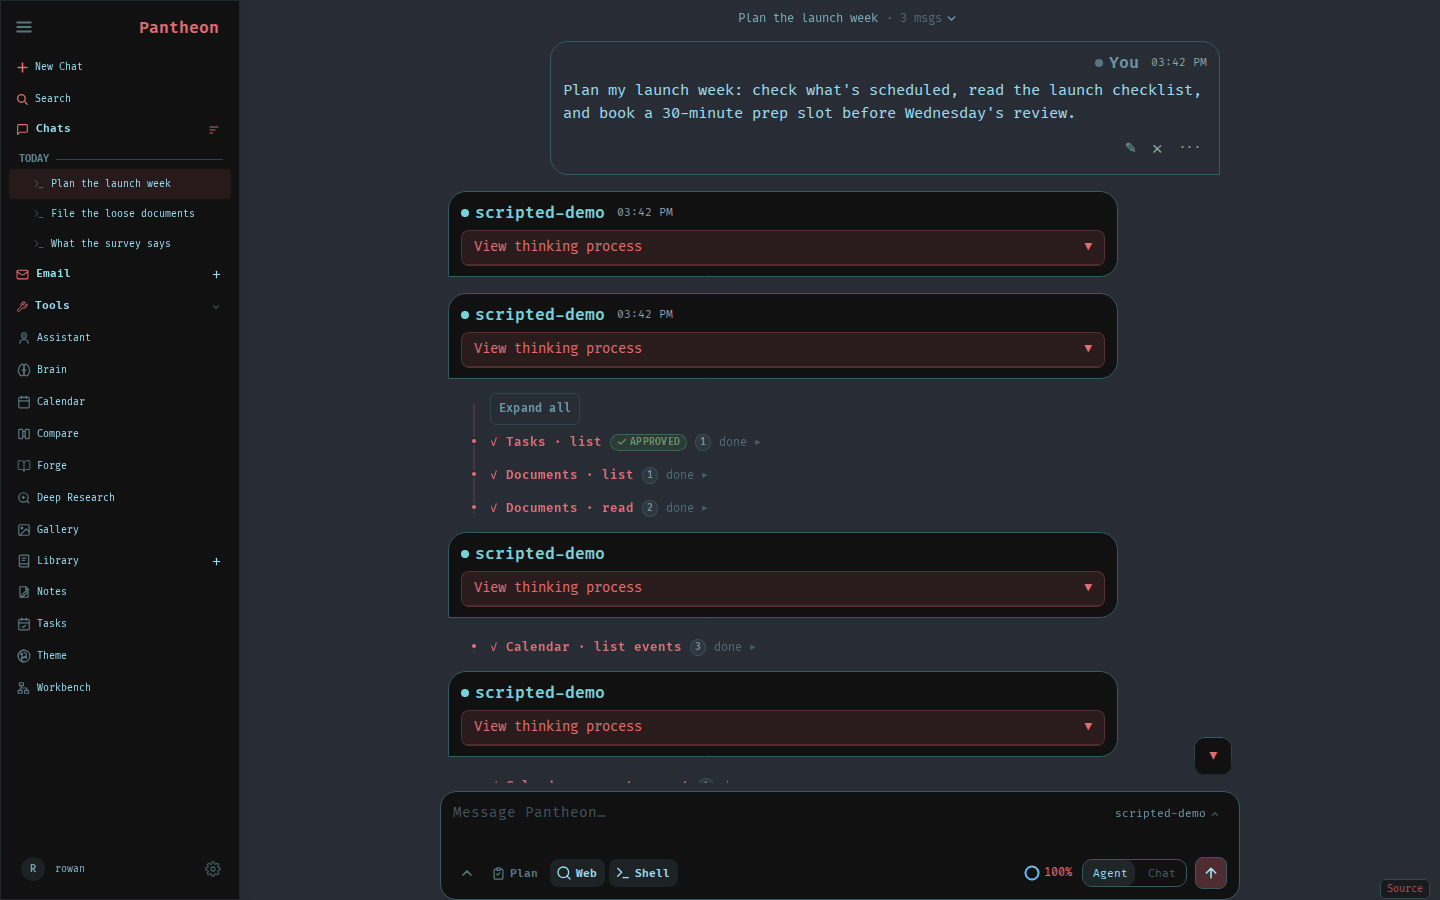
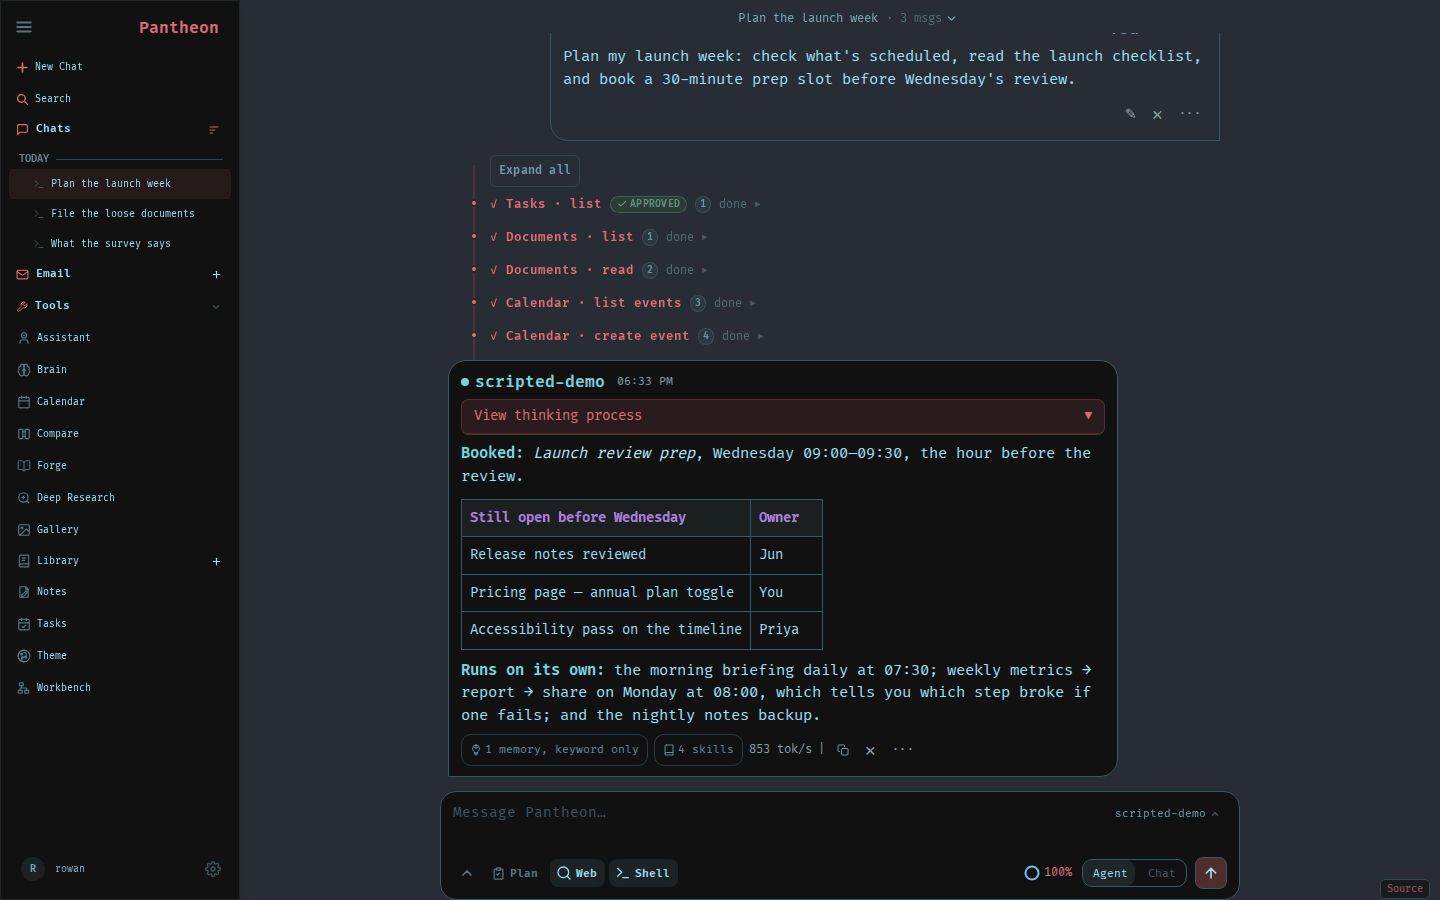
docs(media): B-NEW-11 — re-capture chat-dark/chat-light: the turn's rows, then one reply
python3 scripts/showcase/capture.py --only chat --no-gifs (its own throwaway
server and Chromium; 25.7% / 20.7% of pixels changed; docs/media 4.60 MB).
The hero chat shows every call, then one reply under the model's name and
time, its reasoning in one fold, and the answer in the first screen. The two
scenes that waited for the first .msg-ai to be visible wait for a visible one:
a step that only thought leaves a hidden bubble behind, as the live stream
always has (scripts/showcase/scenes.py, two lines — fx2-doors' file, a merge
point).

Claude-Session: https://claude.ai/code/session_01TPszU2oX3npAqxYYRzSSW7

diff --git a/scripts/showcase/scenes.py b/scripts/showcase/scenes.py
@@ -292,7 +292,7 @@ class Studio:
 
 def _hero(st: Studio, theme: str, size=DESKTOP, name: Optional[str] = None, phone=False):
     page = st.open(theme, size, "/#" + st.chat_id("week"), phone=phone)
-    page.wait_for_selector(".msg-ai", timeout=30000)
+    page.wait_for_selector(".msg-ai >> visible=true", timeout=30000)   # B-NEW-11: a step that only thought leaves a hidden bubble
     if not phone:
         page.locator("#chats-section-title").click()       # show the chats in the sidebar
         page.locator("#mode-agent-btn").click()            # the composer in the mode the turn ran in
@@ -412,7 +412,7 @@ def scene_brain(st: Studio, theme: str):
 def scene_workstation(st: Studio, theme: str):
     """The chat where the agent worked in the workstation, and its screen beside it."""
     page = st.open(theme, path="/#" + st.chat_id("workstation"))
-    page.wait_for_selector(".msg-ai", timeout=30000)
+    page.wait_for_selector(".msg-ai >> visible=true", timeout=30000)   # B-NEW-11
     page.keyboard.press("Control+b")                       # the sidebar folds to its rail
     page.wait_for_timeout(600)
     st.palette(page, "workstation screen")
